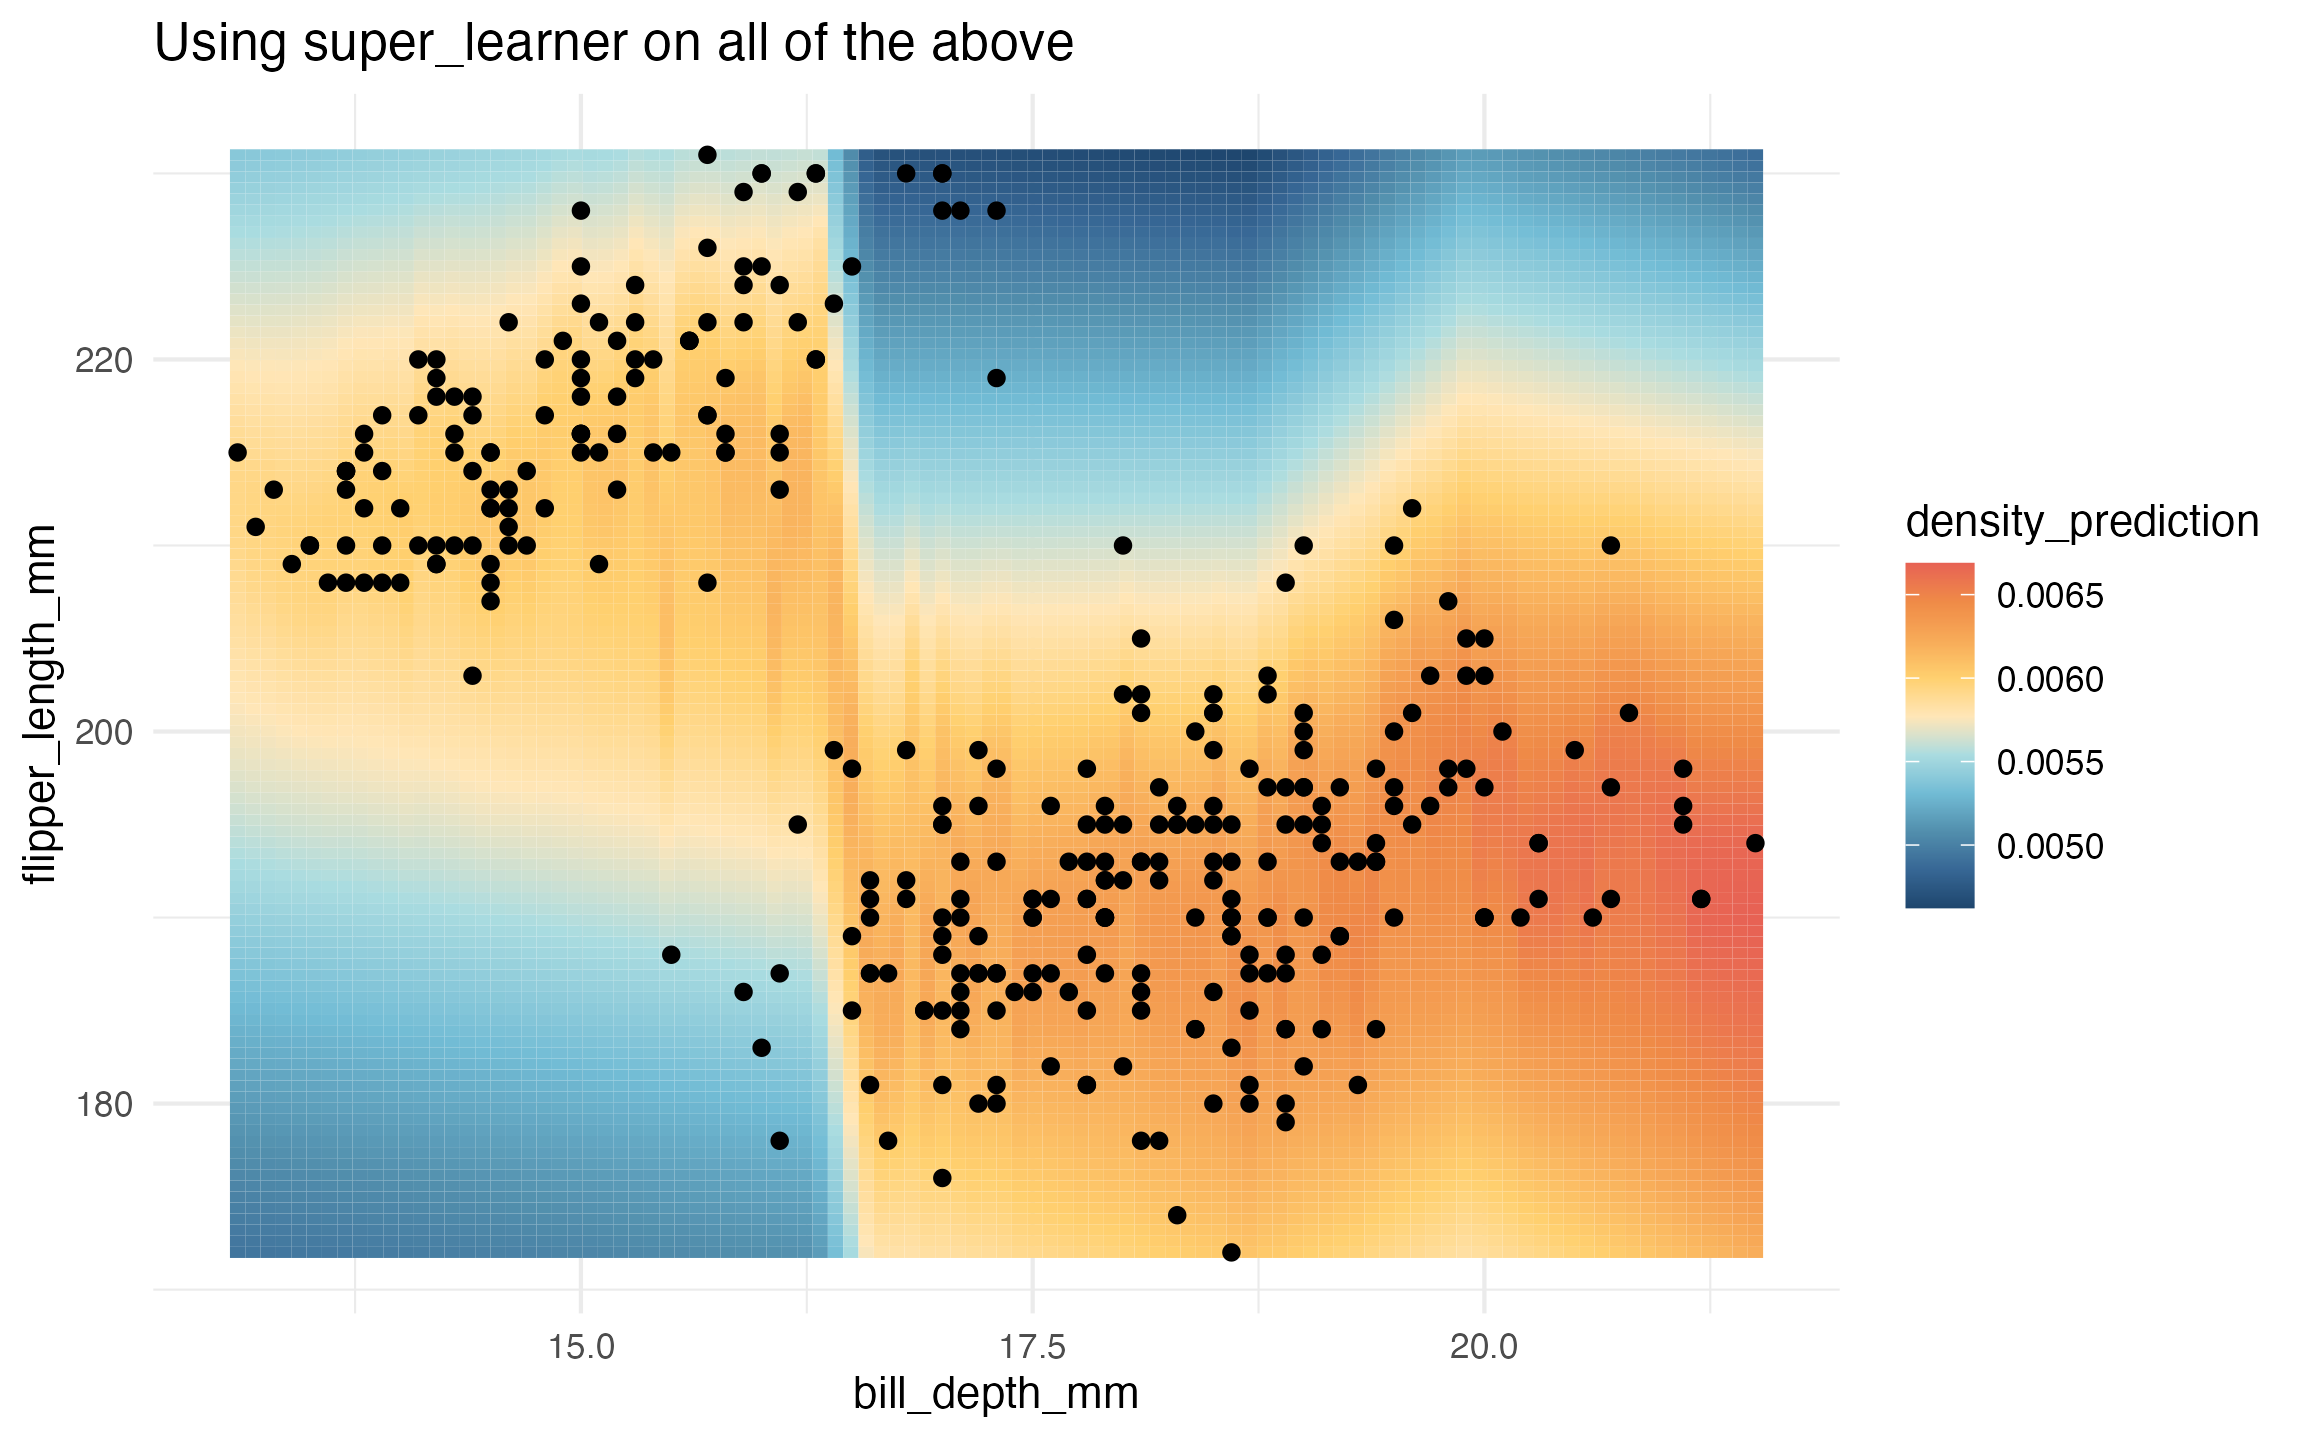
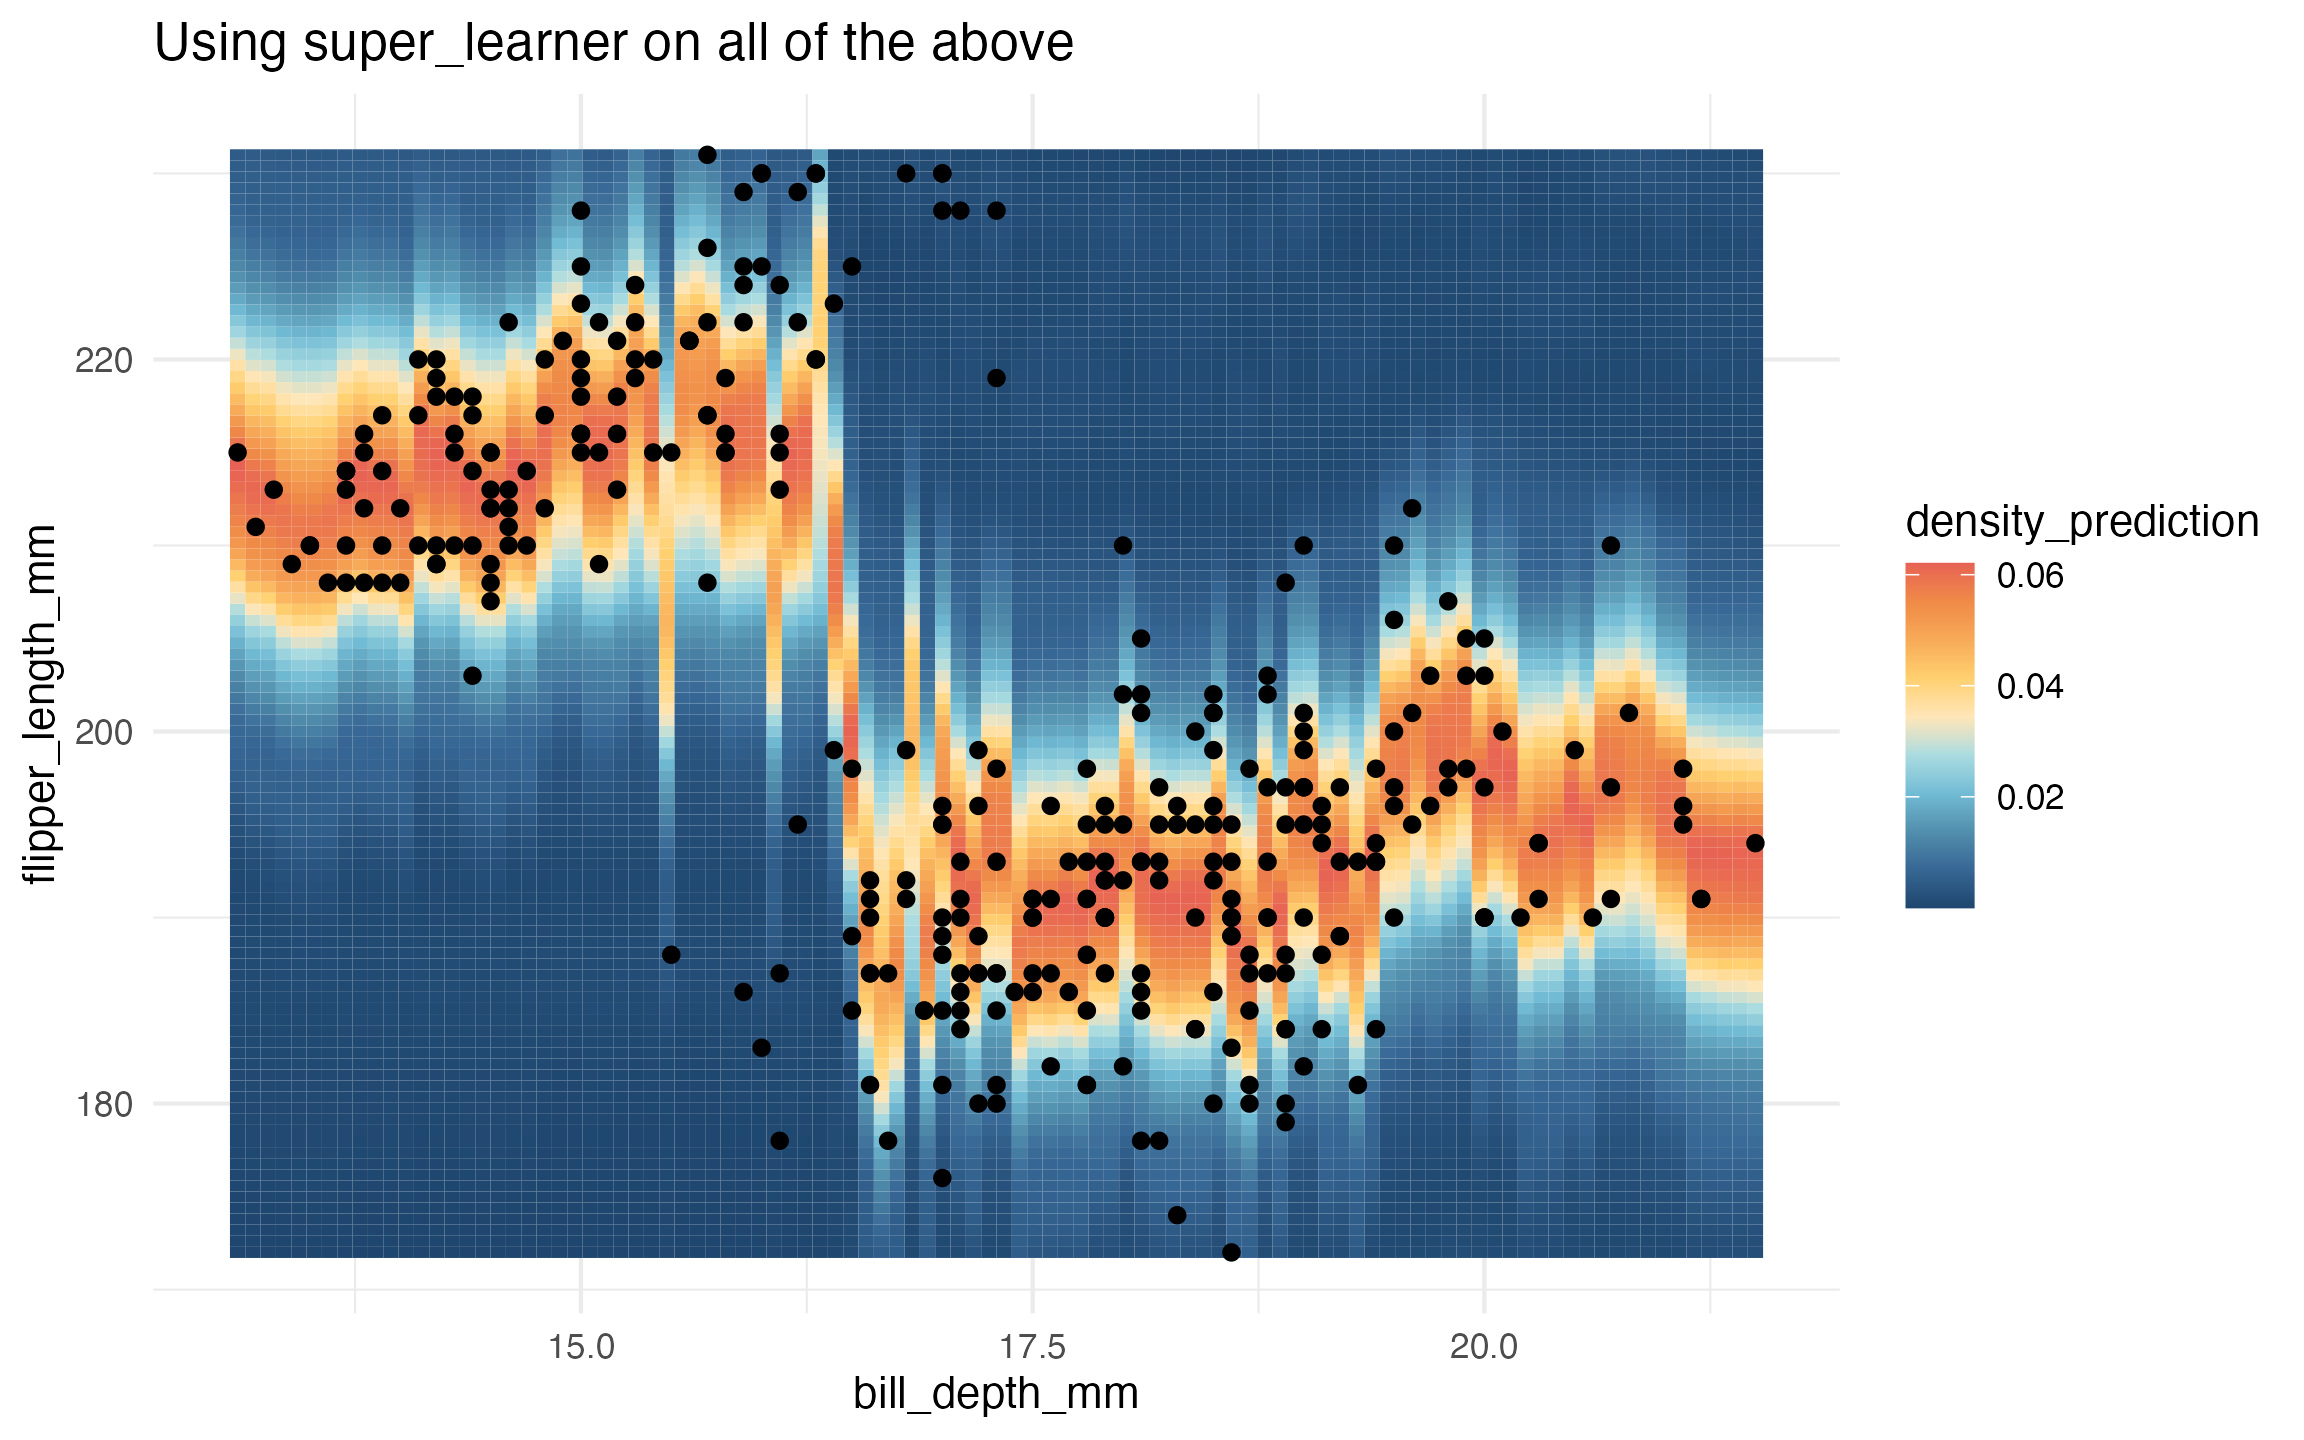
use correct loss in super learner

diff --git a/docs/articles/Density-Estimation.html b/docs/articles/Density-Estimation.html
@@ -395,7 +395,8 @@ density models and visualize their predictions.</p>
 <span>      <span class="op">)</span>,</span>
 <span>    extra_learner_args <span class="op">=</span> <span class="fu"><a href="https://rdrr.io/r/base/list.html" class="external-link">list</a></span><span class="op">(</span></span>
 <span>      heteroskedastic <span class="op">=</span> <span class="fu"><a href="https://rdrr.io/r/base/list.html" class="external-link">list</a></span><span class="op">(</span>mean_lnr <span class="op">=</span> <span class="va">lnr_earth</span>, var_lnr <span class="op">=</span> <span class="va">lnr_glm</span><span class="op">)</span></span>
-<span>      <span class="op">)</span><span class="op">)</span></span>
+<span>      <span class="op">)</span>,</span>
+<span>    determine_super_learner_weights <span class="op">=</span> <span class="va">determine_weights_using_neg_log_loss</span><span class="op">)</span></span>
 <span></span>
 <span><span class="va">prediction_grid</span><span class="op">$</span><span class="va">density_prediction</span> <span class="op">&lt;-</span> <span class="fu">learned_sl_density</span><span class="op">(</span><span class="va">prediction_grid</span><span class="op">)</span></span>
 <span></span>
